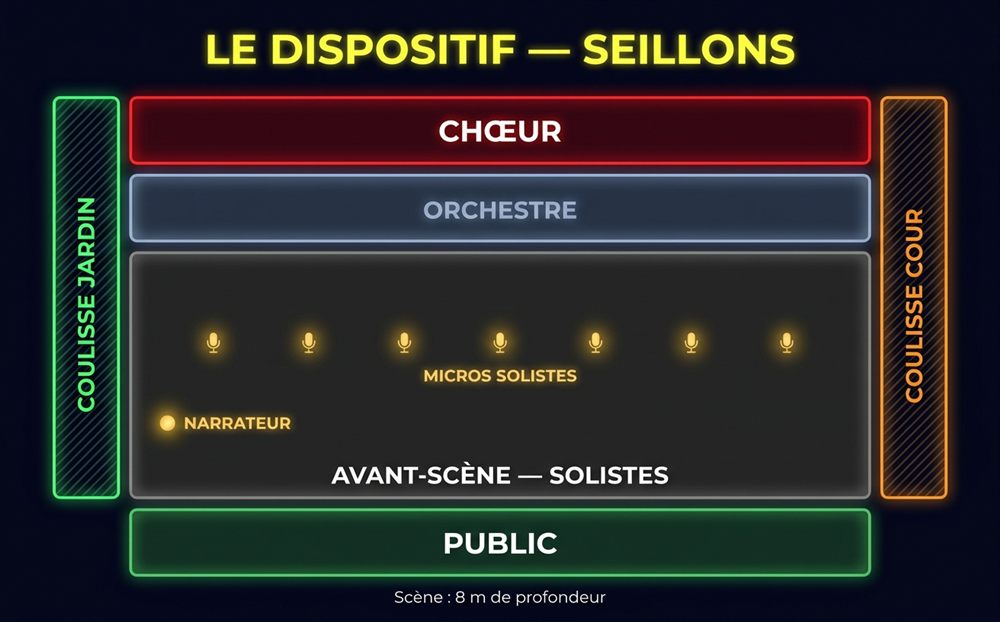
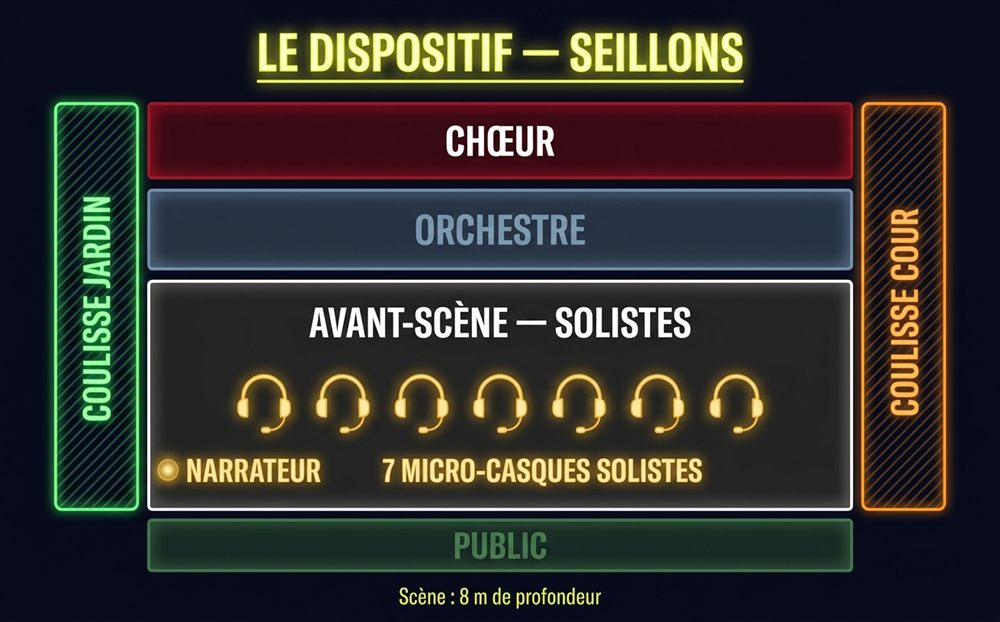
7 micro-casques solistes + micro main sans fil narrateur (a confirmer) + schema dispositif regenere

diff --git a/technique.html b/technique.html
@@ -60,7 +60,7 @@
 <main>
 
   <div class="cadre c-vert">
-    <b>LE PRINCIPE EN 30 SECONDES.</b> Carmen racontée par un <b>narrateur</b> (8 interventions parlées, toujours collées à la musique) et jouée par <b>7 solistes</b> qui évoluent <b>DEVANT l'orchestre, en front de scène</b> (la rangée de micros du dispositif). Le chœur est au fond. Les solistes entrent et sortent <b>par les coulisses, à cour et à jardin</b> — et certains trajets sont prévus <b>dans le public</b> si l'accès existe (à décider ensemble aux balances).
+    <b>LE PRINCIPE EN 30 SECONDES.</b> Carmen racontée par un <b>narrateur</b> (8 interventions parlées, toujours collées à la musique) et jouée par <b>7 solistes équipés de MICRO-CASQUES (7 micro-casques)</b>, qui évoluent <b>DEVANT l'orchestre, en front de scène</b>. Le chœur est au fond. Les solistes entrent et sortent <b>par les coulisses, à cour et à jardin</b> — et certains trajets sont prévus <b>dans le public</b> si l'accès existe (à décider ensemble aux balances). Avantage des casques : les nombreux déplacements ne posent pas de problème de captation.
   </div>
 
   <img src="schemas/schema-dispositif.jpg" alt="Le dispositif scénique" style="width:100%; display:block; border-radius:12px; border:2px solid #00e5ff; box-shadow:0 0 12px rgba(0,229,255,0.3); margin:14px 0;" onerror="this.remove()">
@@ -69,7 +69,7 @@
   <h2>1 · Les voix à sonoriser</h2>
   <table>
     <tr><th>Qui</th><th>Voix</th><th>Présence</th><th>À savoir</th></tr>
-    <tr><td class="qui">Narrateur — Jean-Christophe Maurice</td><td>PARLÉ</td><td>8 interventions, du début à l'acte 3</td><td>⚡ Il enchaîne souvent <b>immédiatement</b> après le dernier accord (ou après les applaudissements) : niveau toujours prêt</td></tr>
+    <tr><td class="qui">Narrateur — Jean-Christophe Maurice</td><td>PARLÉ</td><td>8 interventions, du début à l'acte 3</td><td>Micro main <b>sans fil</b> (à confirmer) · ⚡ il enchaîne souvent <b>immédiatement</b> après le dernier accord (ou après les applaudissements) : niveau toujours prêt</td></tr>
     <tr><td class="qui">Carmen — Marie Pons</td><td>Mezzo</td><td>Tous les actes</td><td>Bouge beaucoup (Habanera, danse, fuite) — quelques répliques parlées</td></tr>
     <tr><td class="qui">Don José — Valentin Ferrari</td><td>Ténor</td><td>Tous les actes</td><td>Descente possible dans le public au N°8 (si accès) — duel très mobile au N°23</td></tr>
     <tr><td class="qui">Micaëla — Cécilia Arbel</td><td>Soprano</td><td>Actes 1 et 3</td><td>Air seule en scène au N°22, puis cachée côté cour jusqu'au N°24</td></tr>
@@ -186,8 +186,8 @@
   <div class="cadre c-orange">
     <ul>
       <li><span class="pastille p-jaune">1</span> <b>Le narrateur enchaîne à la seconde</b> — souvent pile après le dernier accord ou les applaudissements : son micro doit être ouvert en permanence ou anticipé.</li>
-      <li><span class="pastille p-jaune">2</span> <b>Le duel du N°23</b> : Escamillo et José traversent et échangent les côtés plusieurs fois — mobilité maximale de tout le spectacle.</li>
-      <li><span class="pastille p-jaune">3</span> <b>La voix « au loin » du N°24</b> : Escamillo chante depuis les coulisses côté jardin — prévoir un micro en coulisse (ou HF) avec un effet de distance.</li>
+      <li><span class="pastille p-jaune">2</span> <b>Le duel du N°23</b> : Escamillo et José traversent et échangent les côtés plusieurs fois — mobilité maximale du spectacle (les micro-casques suivent, attention aux niveaux dans l'effort).</li>
+      <li><span class="pastille p-jaune">3</span> <b>La voix « au loin » du N°24</b> : Escamillo chante depuis les coulisses côté jardin — son micro-casque le permet ; à doser pour garder l'effet de distance voulu.</li>
       <li><span class="pastille p-jaune">4</span> <b>Des répliques PARLÉES</b> ponctuent le spectacle (José au N°6bis, « Mettez-vous là, Don José » au N°17, le dialogue du duel…) — elles doivent passer comme le chant.</li>
       <li><span class="pastille p-jaune">5</span> <b>Les applaudissements font partie du jeu</b> (fin de la Séguedille, après l'air de la Fleur) : les narrations et les actions repartent juste derrière — ne pas « fermer » trop vite.</li>
     </ul>
@@ -208,7 +208,7 @@
   <h2>6 · Pratique</h2>
   <div class="cadre c-jaune">
     <b>Planning :</b> 18h00–18h45 installation plateau · 18h45–19h00 musiciens · <b>19h00–20h00 balances tutti</b> · 20h00–20h45 repas (offert par la municipalité) · <b>21h00 précises : concert</b><br>
-    <b>Scène :</b> profondeur 8 m · chœur au fond · orchestre au milieu · solistes + narrateur en front de scène<br>
+    <b>Scène :</b> profondeur 8 m · chœur au fond · orchestre au milieu · solistes + narrateur en front de scène · <b>7 micro-casques pour les solistes</b> + 1 micro main sans fil pour le narrateur (à confirmer)<br>
     <b>SOS dépannage :</b> 06 71 02 09 08<br>
     <b>La conduite scénique complète</b> (carte par carte, avec les musiques) : <a href="index.html">page principale</a>
   </div>

diff --git a/index.html b/index.html
@@ -307,7 +307,7 @@
 <main>
 
   <div class="cadre-fluo cadre-vert">
-    ✅ <b>MÊME MISE EN SCÈNE QU'À ROGNES — NOUVEAU PLATEAU.</b> Cette fois : les solistes et le narrateur sont <b>DEVANT L'ORCHESTRE</b> (rangée de micros en front de scène), le chœur au fond — et il y a de <b>VRAIES COULISSES à cour ET à jardin</b>. Musiques et narrations de Carry sur chaque carte.
+    ✅ <b>MÊME MISE EN SCÈNE QU'À ROGNES — NOUVEAU PLATEAU.</b> Cette fois : les solistes et le narrateur sont <b>DEVANT L'ORCHESTRE</b> (avec <b>7 micro-casques</b>), le chœur au fond — et il y a de <b>VRAIES COULISSES à cour ET à jardin</b>. Musiques et narrations de Carry sur chaque carte.
   </div>
 
   <div class="cadre-fluo cadre-rose" style="text-align:center;">
@@ -338,7 +338,7 @@
   <details class="bloc" open>
     <summary>🕐 Feuille de route du samedi 11 juillet (officielle)</summary>
     <div class="plan-txt"><strong>Lieu :</strong> Esplanade Caroline Casadesus, 83470 Seillons-Source-d'Argens.</div>
-    <div class="plan-txt"><strong>Dispositif :</strong> scène de <b>8 m de profondeur</b> · chœur au fond · orchestre au milieu · <b>solistes et narrateur DEVANT, en front de scène</b> (rangée de micros).</div>
+    <div class="plan-txt"><strong>Dispositif :</strong> scène de <b>8 m de profondeur</b> · chœur au fond · orchestre au milieu · <b>solistes et narrateur DEVANT, en front de scène</b> — <b>7 micro-casques</b> pour les solistes.</div>
     <div class="plan-txt"><strong>Horaires :</strong> 18h00–18h45 installation du plateau · 18h45–19h00 arrivée des musiciens · <b>19h00–20h00 balances tutti</b> · 20h00–20h45 repas offert par la municipalité · <b>21h00 précises : concert</b>.</div>
     <div class="plan-txt"><strong>Tenue :</strong> femmes tout en noir (chemisier blanc si possible) · hommes pantalon noir et chemisette blanche.</div>
     <div class="plan-txt"><strong>SOS dépannage :</strong> 06 71 02 09 08.</div>